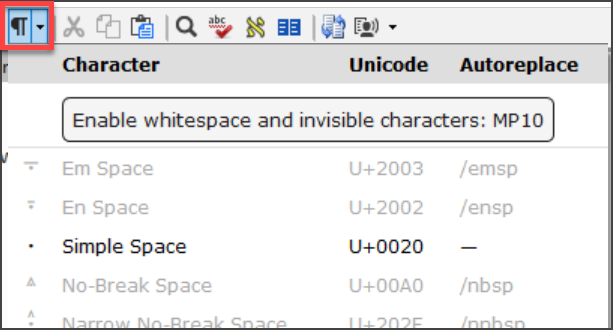
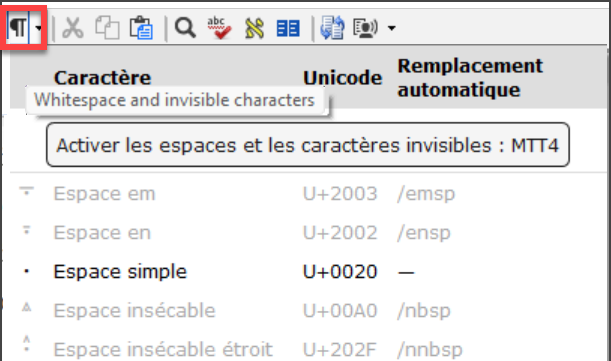
GHAction - Commit incoming translations from Crowdin

diff --git a/i18n/fr/docusaurus-plugin-content-docs/current/Whats-new.md b/i18n/fr/docusaurus-plugin-content-docs/current/Whats-new.md
@@ -12,7 +12,7 @@ Points forts
 
 - **Prise en charge des espaces et des caractères invisibles**
   - Note : L'ensemble de l'équipe doit passer à la version 9.5.
-  - Administrator enables it on by clicking the dropdown on the paragraph icon
+  - L'administrateur l'active en cliquant sur le menu déroulant de l'icône du paragraphe
 
     ![](./1023111266.png)
 
@@ -49,56 +49,56 @@ Points forts
 
     ![](./1707327688.png)
 
-  - Simplified creating and editing Interlinearizer settings.
-    - Choose from existing or click **Create New**
+  - Simplification de la création et de l'édition des paramètres du générateur d’interlinéaire.
+    - Choisissez parmi ceux qui existent déjà ou cliquez sur **Créer un nouveau**.
 
       ![](./1194429716.png)
 
-    - Choose the model text, click **save**
+    - Choisissez le texte du modèle, cliquez sur **Enregistre**.
 
       ![](./297274585.png)
 
-  - Project notes list - “unread and unresolved” filter
+  - Liste des remarques - filtre "non lu et non résolu"
 
     ![](./195867166.png)
 
-### Additional Improvements {#1ba598a5fd40807f8592f94edb9bef69}
+### Améliorations supplémentaires {#1ba598a5fd40807f8592f94edb9bef69}
 
-We’ve also made these additional improvements:
+Nous avons également apporté ces améliorations supplémentaires :
 
-- Added the ability to display **multiple gloss languages** in **Biblical Terms** windows.
-- Added **filter buttons** to the **Download/Install resources** window.
-- **Simplified** the process of creating and editing **Interlinearizer settings**.
-- Added an **“Unread and unresolved”** filter to the **Project notes list**.
-- Provided support for the new format of Flora, Fauna, and Realia in the Enhanced Resource Encyclopedia tab.
-- Provided support for multi-language Flora, Fauna, and Realia.
-- Added a Help link for apparatus abbreviation in GRK Source Language Text.
-- Improved UI localization implementation.
-- Improved merging changes for project data.
-- Allowed changing inventories and settings for Transliteration projects.
-- Added ability to automatically format references when Scripture Reference settings are updated.
-- Provided a built-in Paratext annual survey invitation.
-- Many bug fixes.
+- Ajout de la possibilité d'afficher **plusieurs langues de glose** dans les fenêtres **Termes bibliques**.
+- Ajout de **boutons de filtrage** à la fenêtre **Téléchargement/Installation des ressources**.
+- **Simplifié** le processus de création et d'édition des **paramètres du générateur d'interlinéaire**.
+- Ajout d'un filtre **"Non lu et non résolu "** à la liste **Notes de projet**.
+- Prise en charge du nouveau format de Flore, Faune et Objets réels dans l'onglet Ressource enrichie Encyclopédie.
+- Prise en charge de la Flore, Faune et Objets réels en plusieurs langues.
+- Ajout d'un lien d'aide pour l'abréviation de l'appareil dans le texte de la langue source GRK.
+- Amélioration de la localisation de l'interface utilisateur.
+- Amélioration de la fusion des modifications pour les données de projet.
+- Permet de modifier les inventaires et les paramètres des projets de translittération.
+- Ajout de la possibilité de formater automatiquement les références lorsque les paramètres des références bibliques sont mis à jour.
+- Prévoient l'intégration d'une invitation à l'enquête annuelle Paratext.
+- Nombreuses corrections de bugs.
 
-Please see the _What’s new in Paratext 9.5?_ Help topic for more info about these improvements.
+Veuillez consulter la rubrique d'aide _"What's new in Paratext 9.5?_ pour plus d'informations sur ces améliorations.
 
 ## Paratext 9.4  {#192598a5fd408046bbd6d5ee536dc483}
 
-See Paratext website - [**What’s New in Paratext 9.4 Beta**](https://paratext.org/features/whats-new/whats-new-in-paratext-9-4-beta/)
+Voir le site de Paratext (en anglais)- [What's New in Paratext 9.4](https://paratext.org/features/whats-new/whats-new-in-paratext-9-4)
 
 Points forts
 
-- **Notification of updates for projects on the user’s computer:**  A green dot on the project menu. Les paramètres de vérification des mises à jour sont disponibles dans la fenêtre **Envoyer/recevoir des projets** . [Menu principal vidéo démo (en anglais)](https://paratext.org/features/whats-new/whats-new-in-paratext-9-4-beta/?vimeography_gallery=157&vimeography_video=857678678)
+- **Notification des mises à jour des projets sur l'ordinateur de l'utilisateur:** Un point vert dans le menu du projet. Les paramètres de vérification des mises à jour sont disponibles dans la fenêtre **Envoyer/recevoir des projets** . [Menu principal vidéo démo (en anglais)](https://paratext.org/features/whats-new/whats-new-in-paratext-9-4-beta/?vimeography_gallery=157&vimeography_video=857678678)
 
   ![](./339463073.png)
 
-- **Notification des mises à jour des ressources installées.** Un point vert dans le menu principal peut également indiquer des mises à jour des textes des ressources sur l'ordinateur local. Access to the settings for this feature is in the **Download/Install resources**
+- **Notification des mises à jour des ressources installées.** Un point vert dans le menu principal peut également indiquer des mises à jour des textes des ressources sur l'ordinateur local. L'accès aux paramètres de cette fonction se fait dans le dialogue **Télécharger/Installer ressources** .
 
 - **Amélioration de l'interface droite-gauche.** Paratext affiche désormais correctement les interfaces utilisateur de droite à gauche (comme l'arabe). [RTL vidéo démo (en anglais)](https://paratext.org/features/whats-new/whats-new-in-paratext-9-4-beta/?vimeography_gallery=157&vimeography_video=858761461)
 
   ![](./1222641753.png)
 
-- **Option to hide project notes.** Access from the **View menu &gt; Show Project Notes**. [Menu de projet vidéo démo (en anglais)](https://paratext.org/features/whats-new/whats-new-in-paratext-9-4-beta/?vimeography_gallery=157&vimeography_video=857939433)
+- **Option pour cacher les remarques de projet** Accès à partir du **menu Affichage &gt; Afficher les remarques de projet**. [Menu de projet vidéo démo (en anglais)](https://paratext.org/features/whats-new/whats-new-in-paratext-9-4-beta/?vimeography_gallery=157&vimeography_video=857939433)
 
   ![](./179350404.png)
 
@@ -106,7 +106,7 @@ Points forts
 
 - **Ajout de vidéos aux ressources enrichies.** L'onglet Média des ressources enrichies contient désormais des clips vidéo provenant de [LUMO](https://lumoproject.com/) et de la série "Bible Lands as Classroom" de l'UBS. [Vidéos sur les ressources enrichies - démo vidéo](https://paratext.org/features/whats-new/whats-new-in-paratext-9-4-beta/?vimeography_gallery=157&vimeography_video=858761461)
 
-- **Import/Export Biblical terms lists.** Allows users to create and exchange the Biblical Terms lists as the project progresses. [Termes bibliques vidéo démo](https://paratext.org/features/whats-new/whats-new-in-paratext-9-4-beta/?vimeography_gallery=157&vimeography_video=858020833)
+- \*\*Permet aux utilisateurs de créer et d'échanger des listes de termes bibliques au fur et à mesure de l'avancement du projet. [Termes bibliques vidéo démo](https://paratext.org/features/whats-new/whats-new-in-paratext-9-4-beta/?vimeography_gallery=157&vimeography_video=858020833)
 
 **Et bien d'autres améliorations !**
 
@@ -197,7 +197,7 @@ There is a new menu item on the **main menu**
 
 ## Arranging windows {#b526a01da9e04357804f4849c39f2fdc}
 
-- Arrange windows by **rows** as well as by **columns**.
+- Disposer les fenêtres par **lignes** et par **colonnes**.
 
 :::tip
 

diff --git a/i18n/fr/docusaurus-plugin-content-docs/current/intro.md b/i18n/fr/docusaurus-plugin-content-docs/current/intro.md
@@ -20,7 +20,7 @@ Ce manuel de formation (développé à l'origine au Cameroun) a été révisé p
 
 Il suit les six étapes du processus de traduction et couvre la plupart des tâches du plan compact SIL. Les modules peuvent être sélectionnés pour divers cours de formation, ou ils peuvent également être utilisés comme autoformation.
 
-- 📖 [**Download the PDF version here**](https://manual.paratext.org/downloads/Ptx-man-a5-en-9.5.pdf)
+- 📖 [**Télécharger la version PDF ici**](https://manual.paratext.org/downloads/Ptx-man-a5-en-9.5.pdf)
     - Il comprend 25 chapitres sur 200 pages A5 à imprimer comme un livret. Ou à utiliser comme copie hors ligne.
 
 ---

diff --git a/i18n/fr/docusaurus-plugin-content-docs/current/Training-manual/Stage-2---Team-Checking/15.UN.md b/i18n/fr/docusaurus-plugin-content-docs/current/Training-manual/Stage-2---Team-Checking/15.UN.md
@@ -276,7 +276,7 @@ Il y a quatre listes déroulantes sur la barre d’outils
 
 :::info
 
-Paratext 9.5 added an **“Unread and unresolved”** filter to the **Project notes list**.
+Paratext 9,5 a ajouté d'un filtre **"Non lu et non résolu"** à la **Liste des remarques**.
 
 :::
 
@@ -329,7 +329,7 @@ Paratext 9.5 added an **“Unread and unresolved”** filter to the **Project no
 <div class='notion-row'>
 <div class='notion-column' style={{width: 'calc((100% - (min(32px, 4vw) * 1)) * 0.5)'}}>
 
-- Click the arrow to expand the note
+- Cliquez sur la flèche pour développer la remarque
     - _La note s'affiche_
 
 </div><div className='notion-spacer'></div>

diff --git a/i18n/fr/docusaurus-plugin-content-docs/current/Training-manual/Stage-2---Team-Checking/13.FC.md b/i18n/fr/docusaurus-plugin-content-docs/current/Training-manual/Stage-2---Team-Checking/13.FC.md
@@ -112,5 +112,5 @@ OU
 
 ## 13.5 Ajouter USFMs pour la mise en forme spéciale {#2fed410218164e21834d0949e5ab3c07}
 
-- See the list of passages with special formatting in [Appendix A](https://manual.paratext.org/Training-Manual/Appendix/AppA.st).
+- Voir la liste des passages avec un formatage spécial [Annexe A](https://manual.paratext.org/Training-Manual/Appendix/AppA.st).
 - Ajoutez l'USFM si nécessaire (voir le module KD ou l'aide si nécessaire).
